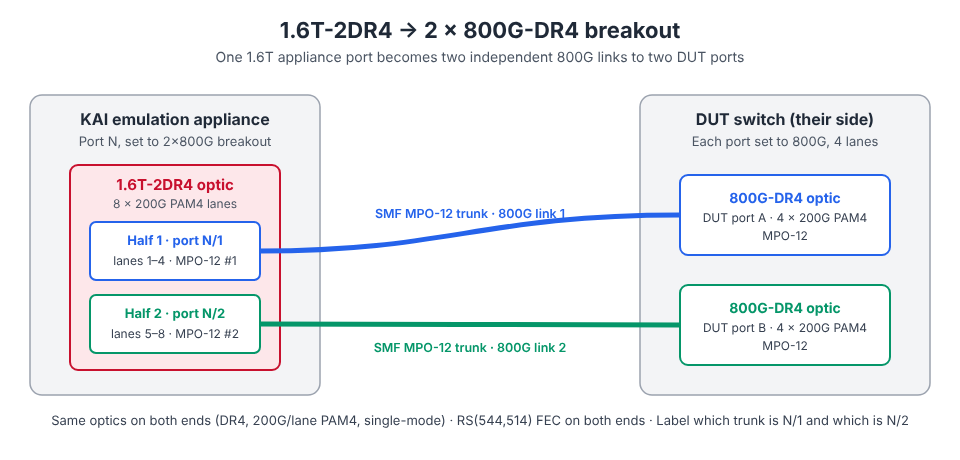
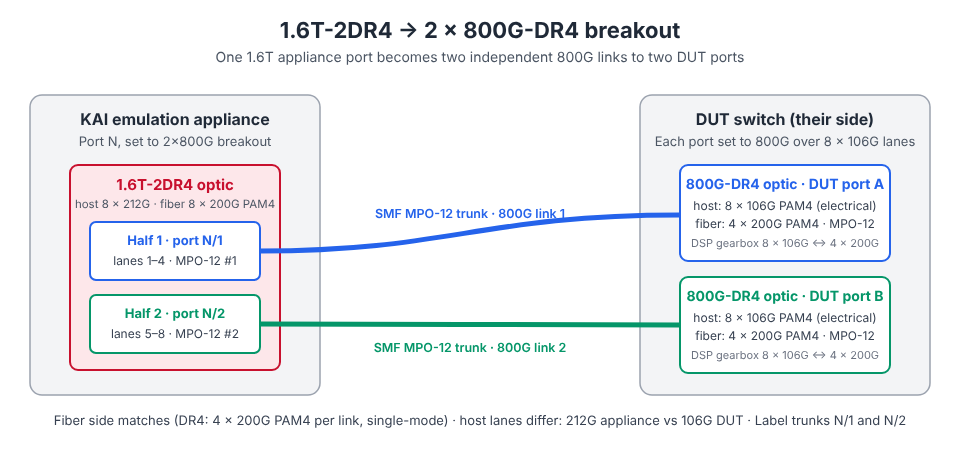
Show 8x106G host lanes on the DUT-side 800G-DR4 optics
The 800G-DR4 optics on the DUT side run 8 x 106G electrical host lanes
and gearbox to 4 x 200G on the fiber; only the fiber side must match the
1.6T-2DR4. Update the diagram and the guide's lane/port-mode text.

Claude-Session: https://claude.ai/code/session_01SeoW1cWrgjs4Pq8WnVHYDC

Changed region(s): [[0.6875, 0.2739, 0.9688, 0.8217], [0.0625, 0.8826, 0.9375, 0.9435], [0.0625, 0.4261, 0.2812, 0.4565]]

diff --git a/KAI_Data_Center_Builder_Guide.html b/KAI_Data_Center_Builder_Guide.html
@@ -398,14 +398,14 @@ an 800G-DR4 interface (4 &times; 200G PAM4 over single-mode fiber), so it pairs 
 <table>
   <thead><tr><th>Side</th><th>Optic</th><th>Electrical / optical lanes</th><th>Port mode</th></tr></thead>
   <tbody>
-    <tr><td>Appliance</td><td>1.6T-2DR4 (two MPO-12 connectors)</td><td>8 &times; 200G PAM4, split into two groups of 4</td><td>2&times;800G breakout</td></tr>
-    <tr><td>DUT (&times;2)</td><td>800G-DR4 (one MPO-12 connector)</td><td>4 &times; 200G PAM4</td><td>800G, 4 lanes, no breakout</td></tr>
+    <tr><td>Appliance</td><td>1.6T-2DR4 (two MPO-12 connectors)</td><td>Host: 8 &times; 212G PAM4. Fiber: 8 &times; 200G PAM4, split into two DR4 groups of 4</td><td>2&times;800G breakout</td></tr>
+    <tr><td>DUT (&times;2)</td><td>800G-DR4 (one MPO-12 connector)</td><td>Host: 8 &times; 106G PAM4. Fiber: 4 &times; 200G PAM4 (the optic&rsquo;s DSP gearboxes between them)</td><td>800G over 8 lanes, no breakout</td></tr>
   </tbody>
 </table>
 <ul>
   <li><strong>Single-mode MPO-12 trunks, one per 800G half.</strong> Use the polarity the optic vendor specifies for DR4 (normally straight-through / Type&nbsp;B) and APC connectors at both ends. Each half is a plain point-to-point DR4 link; there is no fan-out cable.</li>
   <li><strong>Label which MPO is which half.</strong> Port <code>N/1</code> and <code>N/2</code> on the appliance map to whatever DUT ports those trunks reach. Swapping the two trunks still gives link-up, but it silently moves ranks to the wrong leaf ports and breaks locality-aware results.</li>
-  <li><strong>Match FEC and speed on both ends.</strong> 200G-per-lane links run RS(544,514) FEC. Set the appliance port to 2&times;800G and each DUT port to 800G over 4 lanes; anything auto-negotiated or forced differently on one side shows up as link-down or a link that flaps.</li>
+  <li><strong>Match FEC and speed on both ends.</strong> 200G-per-lane links run RS(544,514) FEC. Set the appliance port to 2&times;800G (4 &times; 212G host lanes per half) and each DUT port to 800G over 8 &times; 106G host lanes. The lane rates differ on purpose: only the fiber side has to match; anything auto-negotiated or forced differently on one side shows up as link-down or a link that flaps.</li>
   <li><strong>Treat the two halves as sharing fate.</strong> Both 800G links live on one optic and one cage. An optic fault, reseat, or port reset takes down two DUT ports and two ranks at once, so account for that when you design failure-injection runs.</li>
 </ul>
 
@@ -714,7 +714,7 @@ python3 compare.py --baseline golden/ --candidate out/ --tolerance-pct 3</code><
     </tr>
     <tr>
       <td>Only one half of a 1.6T breakout comes up</td>
-      <td>Appliance port not in 2&times;800G mode; one MPO trunk dirty, unseated, or wrong polarity; DUT port not set to 800G over 4 lanes</td>
+      <td>Appliance port not in 2&times;800G mode; one MPO trunk dirty, unseated, or wrong polarity; DUT port not set to 800G over 8 &times; 106G lanes</td>
       <td>Confirm the breakout mode on the appliance; clean and reseat the dead half's MPO at both ends; compare lane-level optical power/BER for the two halves</td>
     </tr>
     <tr>
